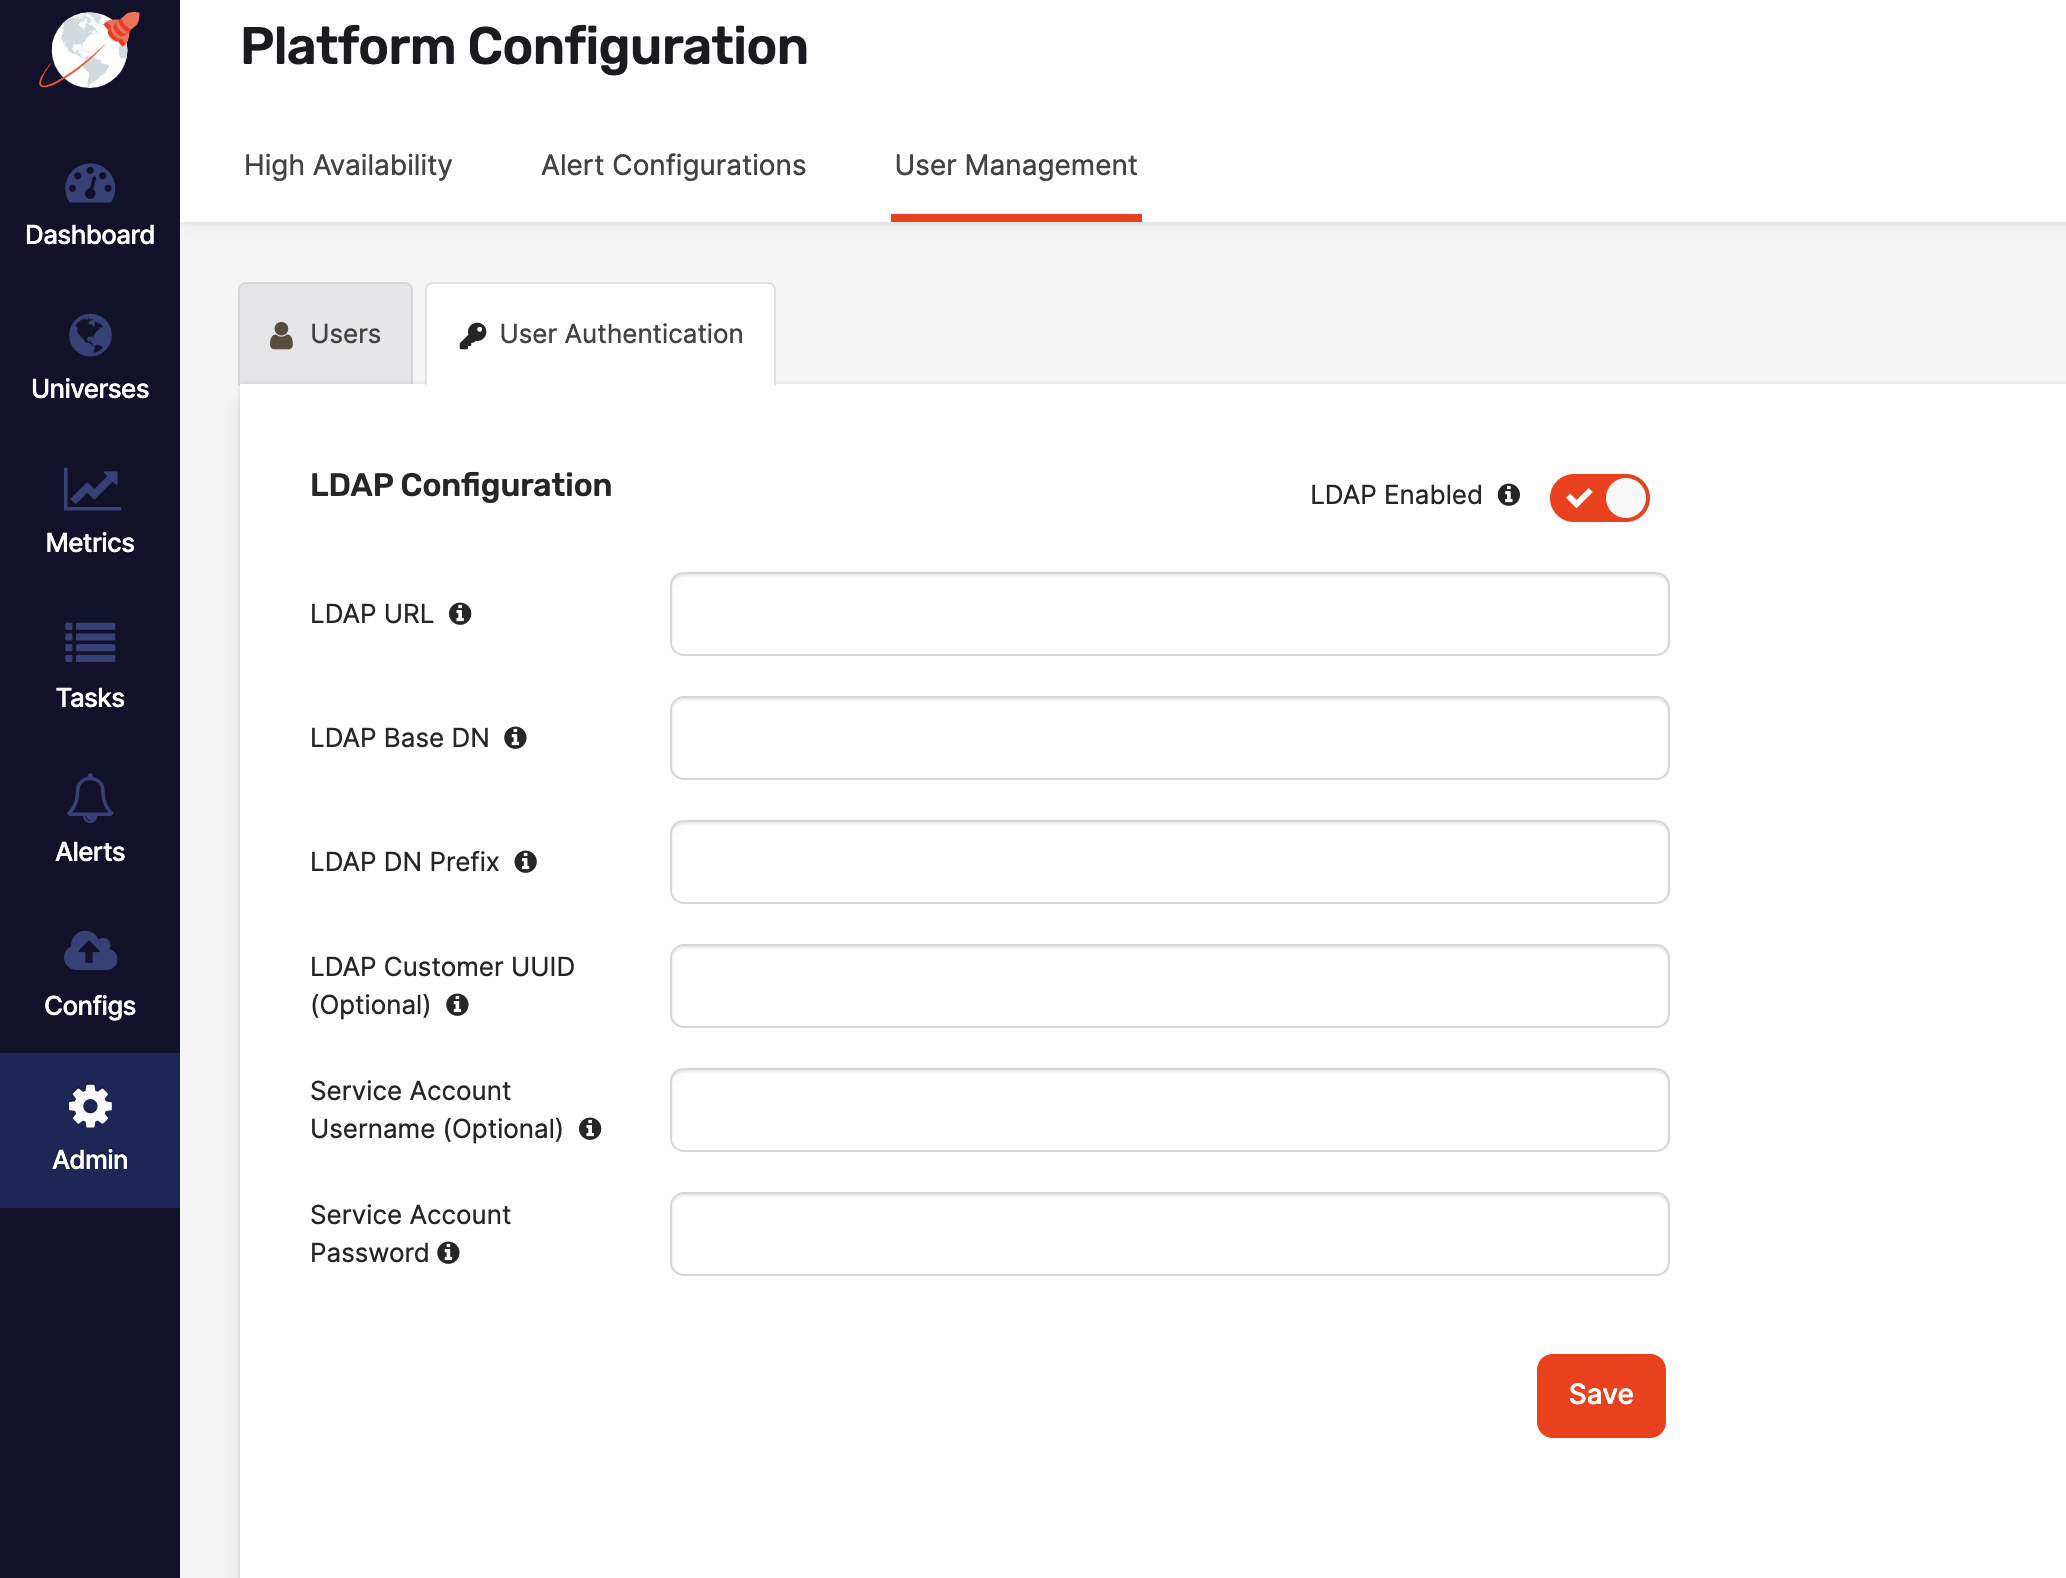
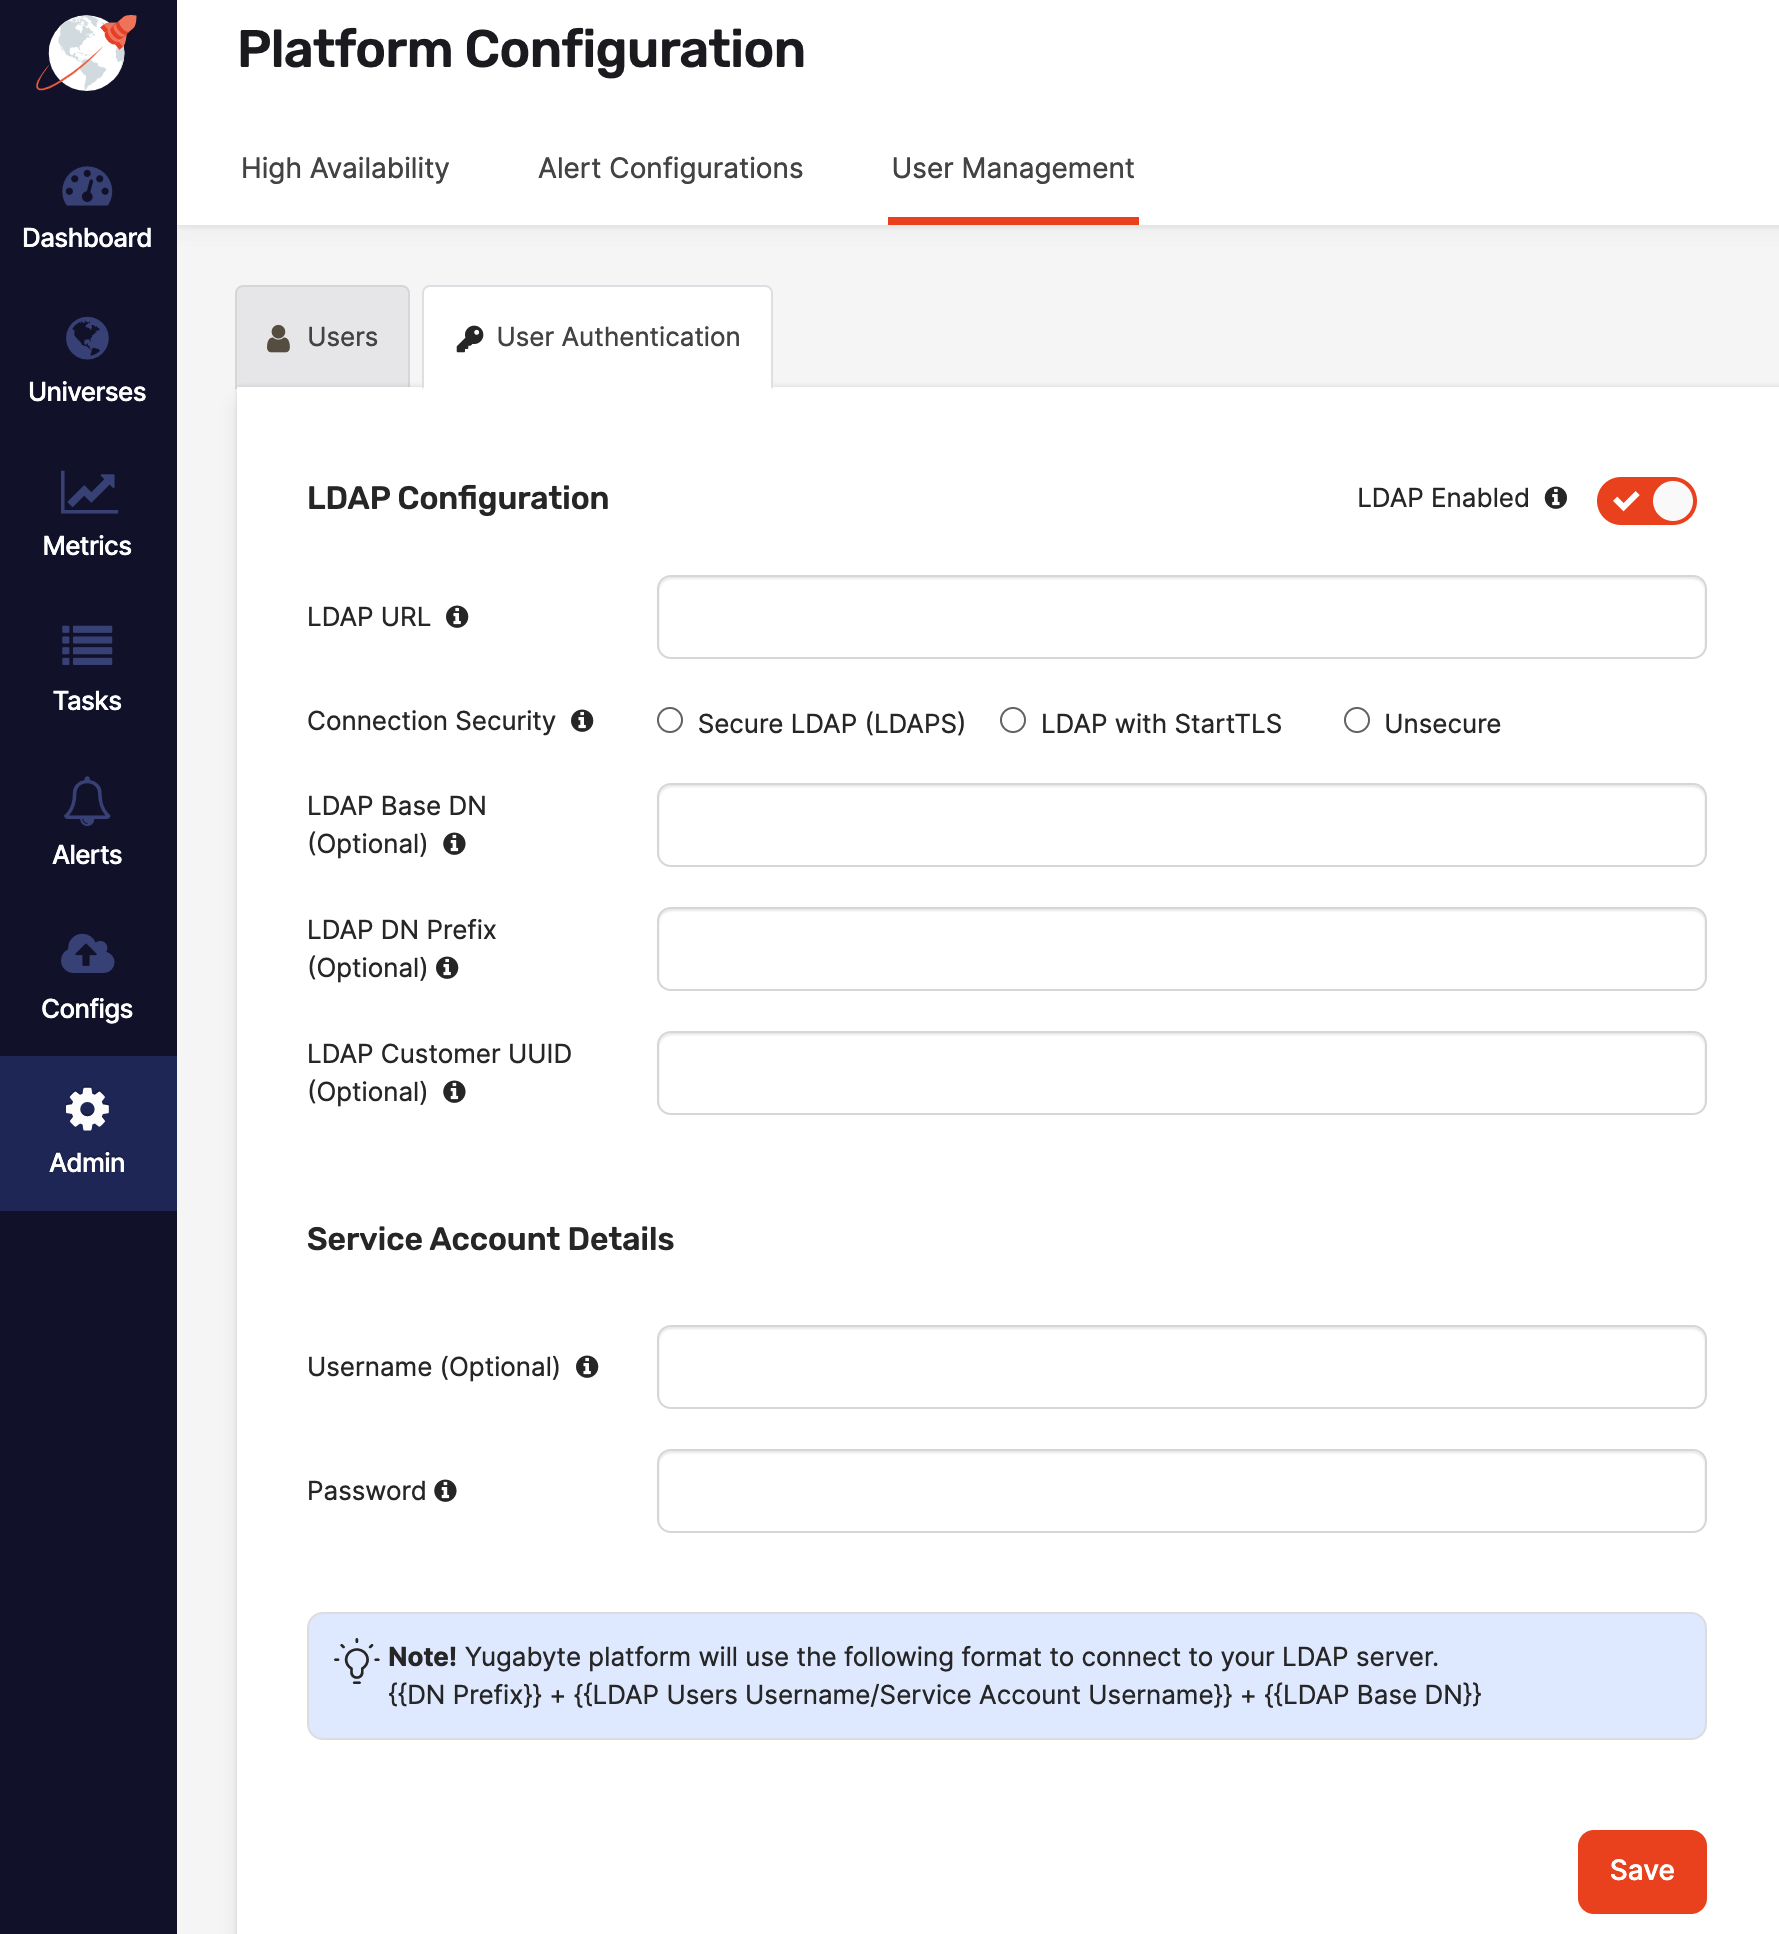
Added new options; updated screenshot

diff --git a/docs/content/latest/yugabyte-platform/administer-yugabyte-platform/ldap-authentication.md b/docs/content/latest/yugabyte-platform/administer-yugabyte-platform/ldap-authentication.md
@@ -38,7 +38,7 @@ You can use the Yugabyte Platform UI console to enable LDAP authentication for Y
 
 ## Use the Yugabyte Platform API
 
-To enable LDAP authentication for Yugabyte Platform login, you need to perform a number of runtime configurations to specify the following:
+To enable LDAP authentication for Yugabyte Platform login, you perform a number of runtime configurations to specify the following:
 
 - LDAP usage `yb.security.ldap.use_ldap` must be set to `true`, as follows:
 
@@ -100,7 +100,7 @@ To enable LDAP authentication for Yugabyte Platform login, you need to perform a
 
   <br>Note that Yugabyte Platform combines `ldap_basedn` and `ldap_dn_prefix` with the username provided during login to query the LDAP server. `ldap_basedn` and `ldap_dn_prefix` should be set accordingly.
 
-- The universally unique identifier (UUID) `yb.security.ldap.ldap_customeruuid`,  if you have a multi-tenant setup, as follows:
+- The universally unique identifier (UUID) `yb.security.ldap.ldap_customeruuid`, if you have a multi-tenant setup, as follows:
 
   ```shell
   curl --location --request PUT 'https://10.9.140.199/api/v1/customers/f3a63f07-e3d6-4475-96e4-57a6453072e1/runtime_config/00000000-0000-0000-0000-000000000000/key/yb.security.ldap.ldap_customeruuid' \
@@ -113,6 +113,32 @@ To enable LDAP authentication for Yugabyte Platform login, you need to perform a
   <br>Replace `[UUID]` with the actual value.<br>
 
   If the UUID is not specified, then single-tenant is assumed by Yugabyte Platform.
+
+- SSL usage with LDAP `yb.security.ldap.enable_ldaps`, set to `true` or `false` (default), as follows:
+
+  ```shell
+  curl --location --request PUT 'https://10.9.140.199/api/v1/customers/f3a63f07-e3d6-4475-96e4-57a6453072e1/runtime_config/00000000-0000-0000-0000-000000000000/key/yb.security.ldap.enable_ldaps' \
+  --header 'X-AUTH-YW-API-TOKEN: 5182724b-1891-4cde-bcd1-b8f7a3b7331e' \
+  --header 'Content-Type: text/plain' \
+  --header 'Cookie: csrfCookie=d5cdb2b36b00fcad1f4fdb24605aee412f8dfaa0-1641544510767-641be933bf684abcade3c592' \
+  --data-raw 'true'
+  ```
+
+  <br>If the port is configured for an SSL connection, then you can enable SSL when you configure the LDAP server on Yugabyte Platform. 
+
+- TLS usage with LDAP `yb.security.ldap.enable_ldap_start_tls`, set to `true` or `false` (default), as follows:
+
+  ```shell
+  curl --location --request PUT 'https://10.9.140.199/api/v1/customers/f3a63f07-e3d6-4475-96e4-57a6453072e1/runtime_config/00000000-0000-0000-0000-000000000000/key/yb.security.enable_ldap_start_tls' \
+  --header 'X-AUTH-YW-API-TOKEN: 5182724b-1891-4cde-bcd1-b8f7a3b7331e' \
+  --header 'Content-Type: text/plain' \
+  --header 'Cookie: csrfCookie=d5cdb2b36b00fcad1f4fdb24605aee412f8dfaa0-1641544510767-641be933bf684abcade3c592' \
+  --data-raw 'true'
+  ```
+
+  <br>If the port is configured for a TLS connection, then you can enable StartTLS when you configure the LDAP server on Yugabyte Platform. 
+
+  By default, if neither `ldap.enable_ldaps` or `ldap.enable_ldap_start_tls` is enabled, the connection will be unsecured.
 
 When configured, Yugabyte Platform users are able to login by specifying the common name of the user and the password to bind to the LDAP server.
 
